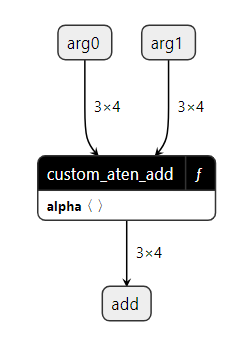
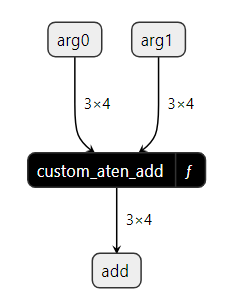
add custom_aten_add attribute annotation

Changed region(s): [[0.0913, 0.0586, 0.913, 0.9674], [0.5478, 0.6743, 0.6696, 0.7622]]

diff --git a/advanced_source/intro_to_onnx_registry.py b/advanced_source/intro_to_onnx_registry.py
@@ -93,8 +93,9 @@ custom_aten = onnxscript.values.Opset(domain="custom.aten", version=1)
 
 # NOTE: The function signature must match the signature of the unsupported ATen operator.
 # https://github.com/pytorch/pytorch/blob/main/aten/src/ATen/native/native_functions.yaml
+# NOTE: All attributes must be annotated with type hints.
 @onnxscript.script(custom_aten)
-def custom_aten_add(x, y, alpha=1):
+def custom_aten_add(x, y, alpha: float = 1.0):
     alpha = opset18.CastLike(alpha, y)
     y = opset18.Mul(y, alpha)
     return opset18.Add(x, y)
@@ -112,18 +113,18 @@ export_options = torch.onnx.ExportOptions(onnx_registry=onnx_registry)
 export_output = torch.onnx.dynamo_export(aten_add_model, input_add_x, input_add_y, export_options=export_options)
 
 # Make sure the model uses custom_aten_add instead of aten::add.Tensor
-# The graph has two graph nodes, one for input, and one for custom_aten_add,
-# and inside custom_aten_add, there are three function nodes, one for each
-# operator.
+# The graph has one graph nodes for custom_aten_add, and inside 
+# custom_aten_add, there are four function nodes, one for each
+# operator, and one for constant attribute.
 # graph node domain is the custom domain we registered
-assert export_output.model_proto.graph.node[1].domain == "custom.aten"
-assert len(export_output.model_proto.graph.node) == 2
+assert export_output.model_proto.graph.node[0].domain == "custom.aten"
+assert len(export_output.model_proto.graph.node) == 1
 # graph node name is the function name
-assert export_output.model_proto.graph.node[1].op_type == "custom_aten_add"
+assert export_output.model_proto.graph.node[0].op_type == "custom_aten_add"
 # function node domain is empty because we use standard ONNX operators
-assert export_output.model_proto.functions[0].node[2].domain == ""
+assert export_output.model_proto.functions[0].node[3].domain == ""
 # function node name is the standard ONNX operator name
-assert export_output.model_proto.functions[0].node[2].op_type == "Add"
+assert export_output.model_proto.functions[0].node[3].op_type == "Add"
 
 # %%
 # TODO: Check the ONNX model with Netron
